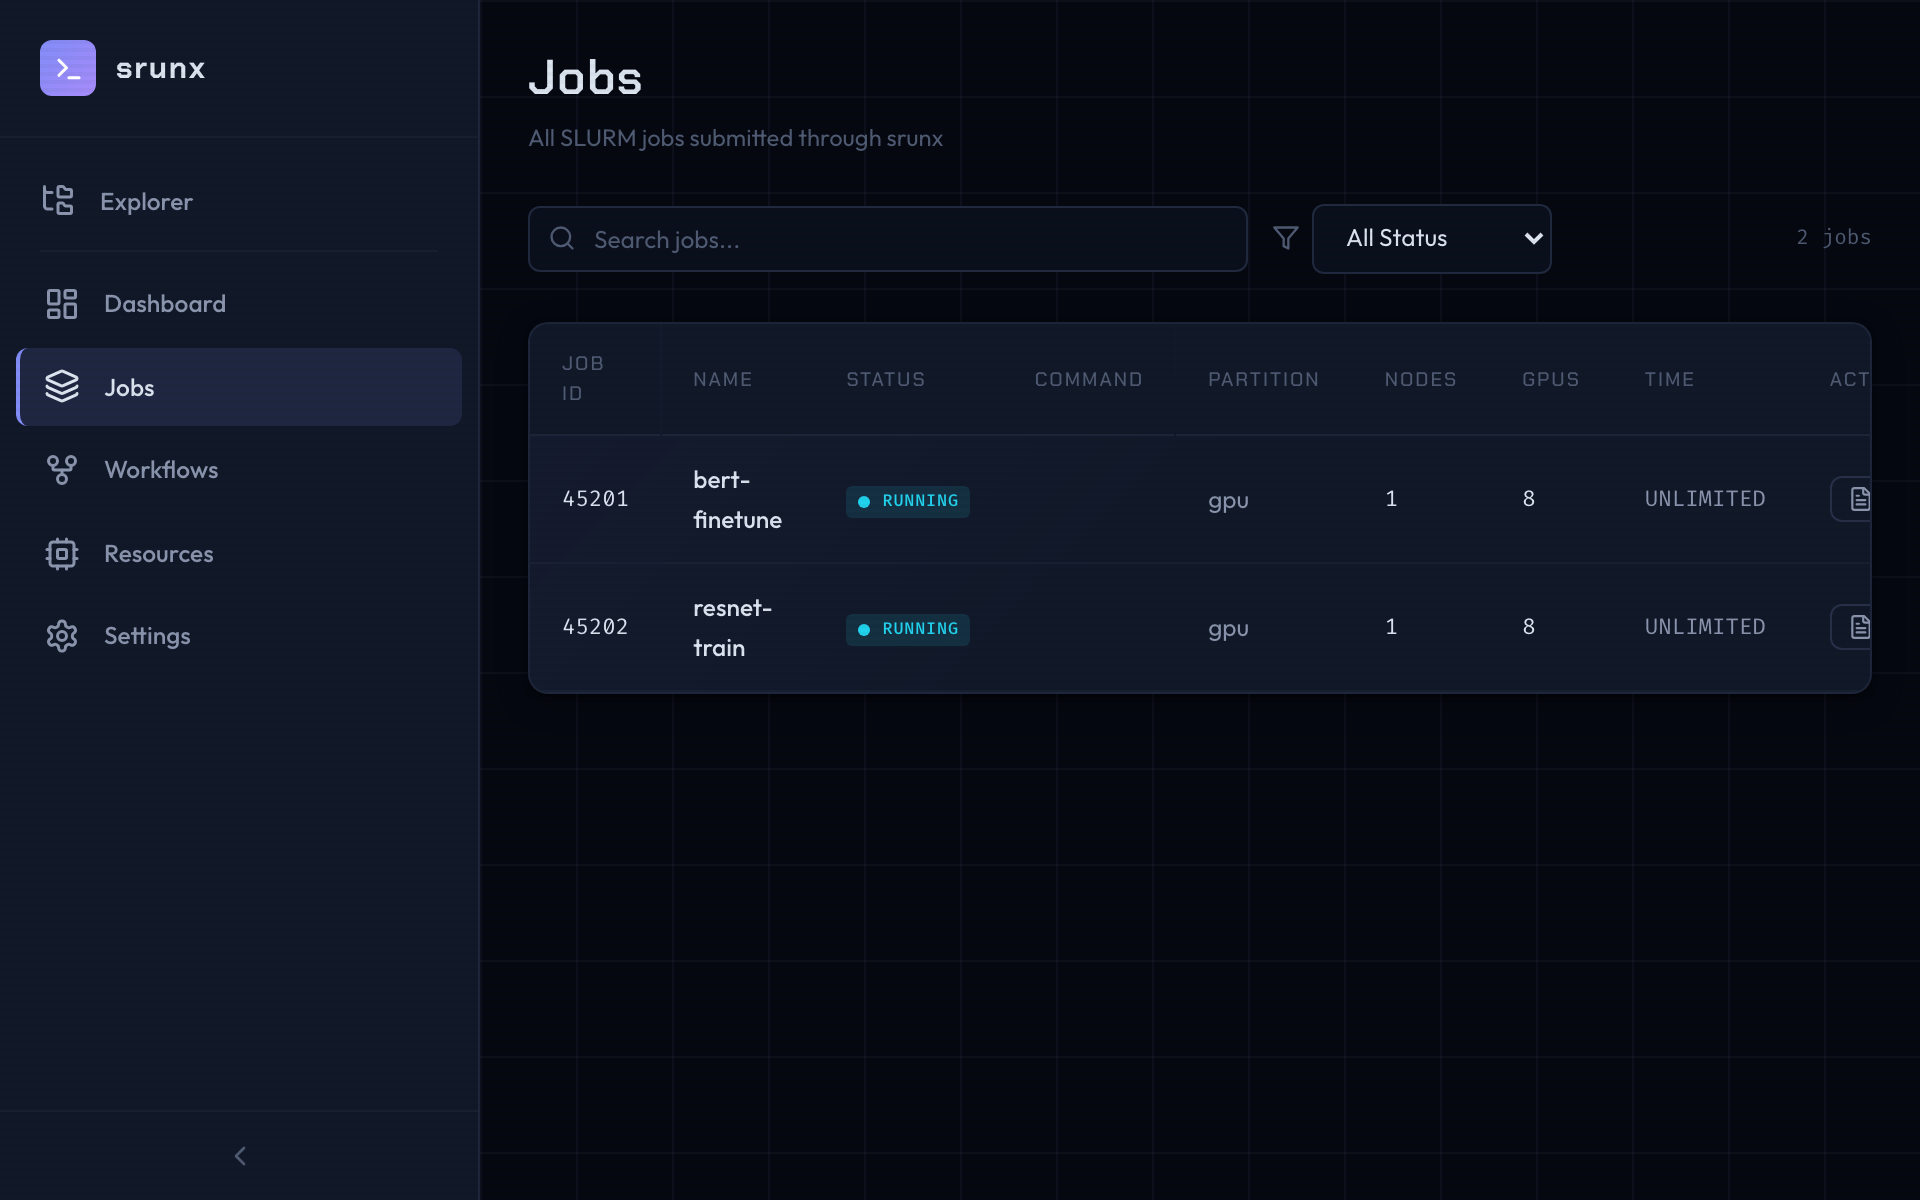
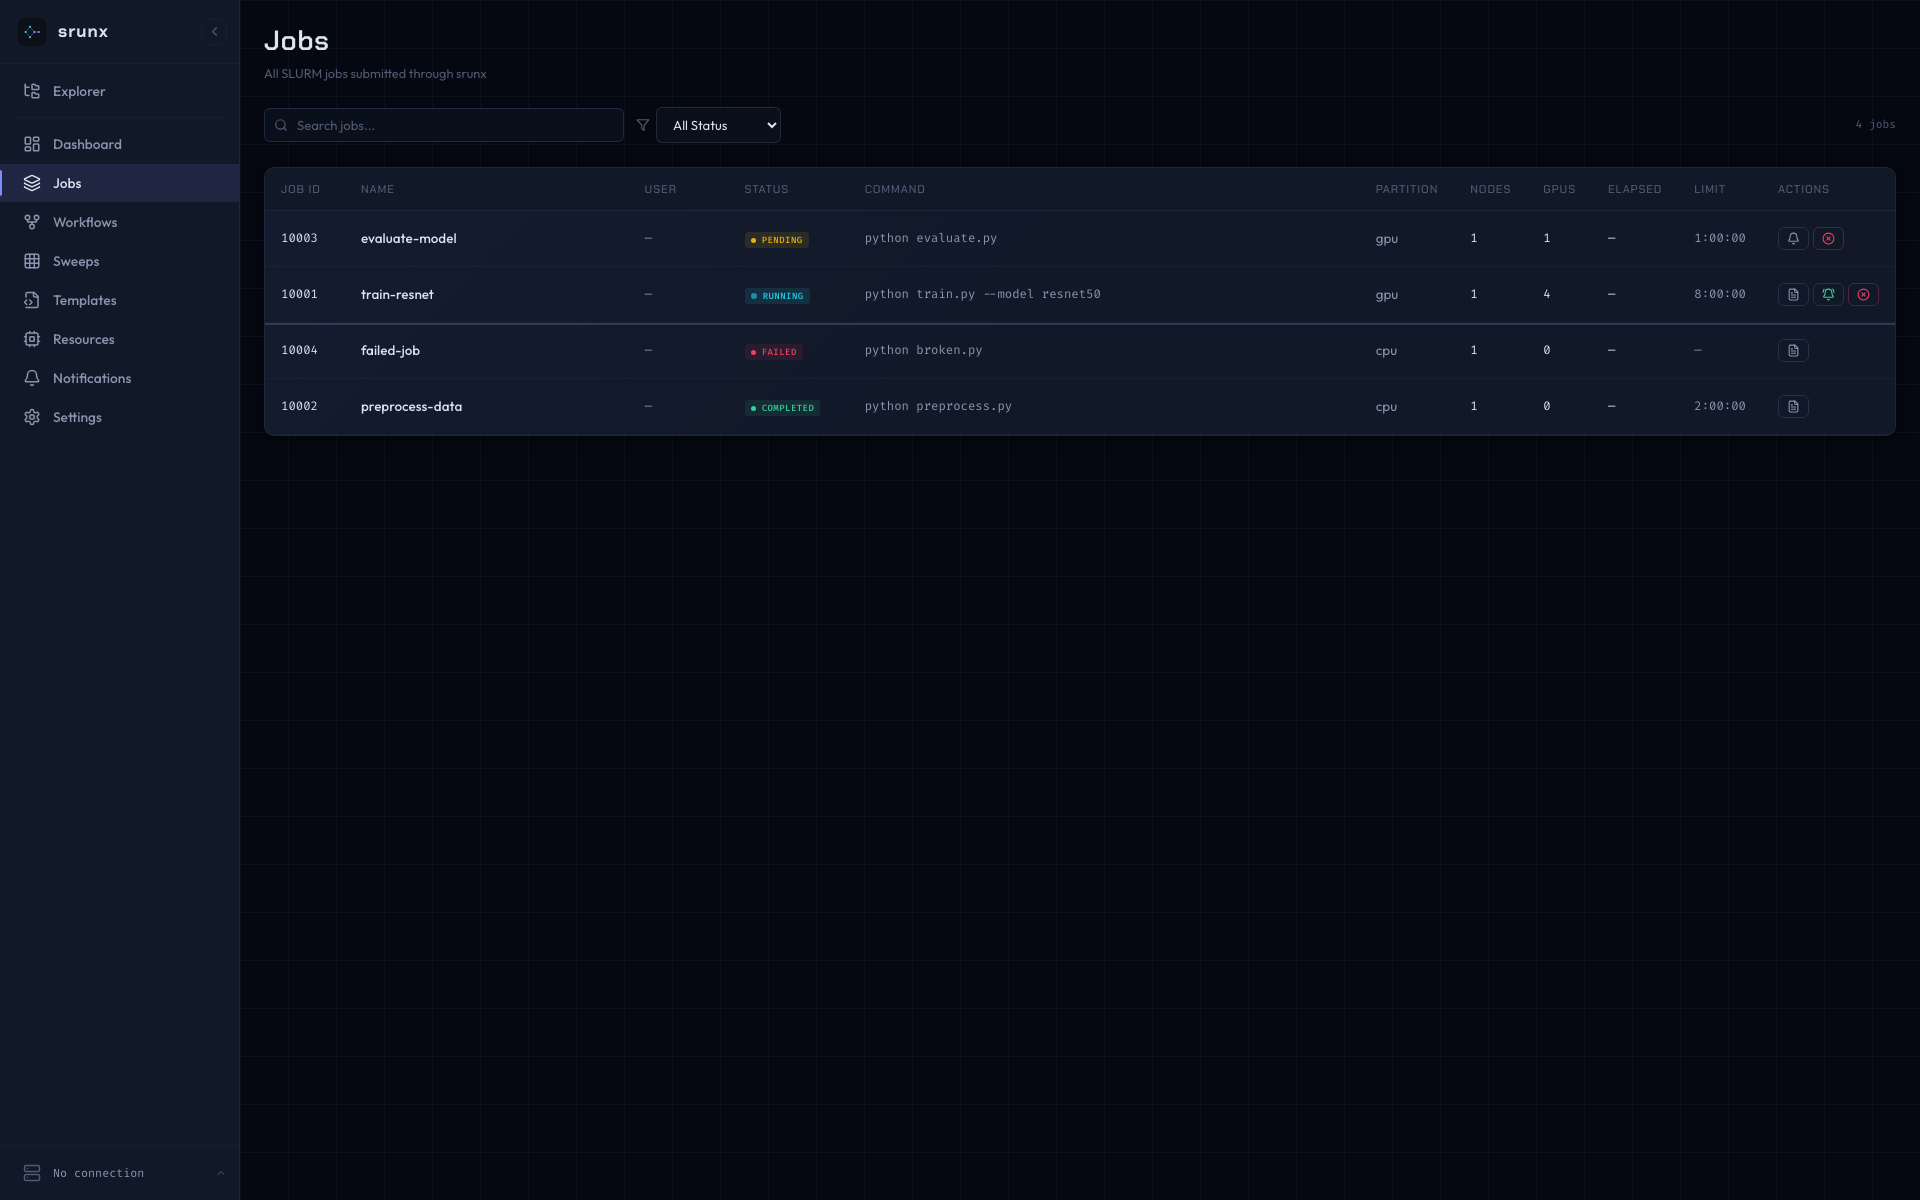
chore(docs): refresh UI screenshots + add reproducible capture spec
The dashboard / jobs / resources / workflow-dag / explorer / notifications
screenshots no longer matched the live UI: missing nav entries (Sweeps,
Templates, Notifications), the old terminal-icon brand, and the pre-rewrite
sidebar. Regenerated all of them against the same mocked APIs the e2e
suite uses, then re-recorded the explorer sbatch demo GIF.

To make future updates a one-liner, this PR also adds:

- `e2e/capture-screenshots.ts` — Playwright capture script that hits each
  page (with `setupMockRoutes`) at the historical viewport sizes and
  writes PNGs straight into `docs/assets/images/`. The filename omits
  `.spec.ts` so the default Playwright glob in CI ignores it.
- `playwright.capture.config.ts` — alternate config that overrides
  `testMatch` to include exactly that one file. Run with
  `npx playwright test --config=playwright.capture.config.ts`.

The 3 notifications-center screenshots were `.gitignore`d by the global
`*.png` rule and never tracked; force-add them so the docs reference
resolves.

diff --git a/src/srunx/web/frontend/e2e/capture-screenshots.ts b/src/srunx/web/frontend/e2e/capture-screenshots.ts
@@ -1,0 +1,136 @@
+/**
+ * Regenerate the README / docs screenshots from the live UI with mocked APIs.
+ *
+ * The filename intentionally omits the `.spec.ts` suffix so Playwright's
+ * default test glob (`**\/*.spec.ts`) does not pick it up — that keeps
+ * `npx playwright test` (used in CI) free of capture overhead. Run it
+ * explicitly by passing the path:
+ *
+ *   npx playwright test e2e/capture-screenshots.ts --project=chromium
+ *
+ * Outputs land in repo `docs/assets/images/`. The mkdocs build copies them
+ * to `public/assets/images/`, so we don't write there directly.
+ */
+import { test, type Page } from "@playwright/test";
+import * as fs from "node:fs";
+import * as path from "node:path";
+import { setupMockRoutes } from "./fixtures/mock-routes.ts";
+
+// playwright runs from src/srunx/web/frontend/, so repo root is 4 levels up.
+const REPO_ROOT = path.resolve(process.cwd(), "../../../..");
+const DOCS_OUT = path.join(REPO_ROOT, "docs/assets/images");
+
+async function save(page: Page, name: string) {
+  fs.mkdirSync(DOCS_OUT, { recursive: true });
+  const out = path.join(DOCS_OUT, name);
+  await page.screenshot({ path: out, type: "png" });
+  console.log(`wrote ${path.relative(REPO_ROOT, out)}`);
+}
+
+// Settle: wait for the sidebar's framer-motion width animation to complete +
+// any data-driven repaints to flush. 400ms is comfortably above the 200ms
+// transition without making the spec slow.
+async function settle(page: Page) {
+  await page.waitForLoadState("networkidle");
+  await page.waitForTimeout(400);
+}
+
+test.describe("UI screenshots", () => {
+  test("dashboard, jobs, resources @ 1920x1200", async ({ page }) => {
+    await page.setViewportSize({ width: 1920, height: 1200 });
+    await setupMockRoutes(page);
+
+    await page.goto("/");
+    await settle(page);
+    await save(page, "ui-dashboard.png");
+
+    await page.goto("/jobs");
+    await settle(page);
+    await save(page, "ui-jobs.png");
+
+    await page.goto("/resources");
+    await settle(page);
+    await save(page, "ui-resources.png");
+  });
+
+  test("workflow DAG @ 1920x1200", async ({ page }) => {
+    await page.setViewportSize({ width: 1920, height: 1200 });
+    await setupMockRoutes(page);
+
+    await page.goto("/workflows/ml-pipeline?mount=ml-project");
+    await settle(page);
+    // Give react-flow's layout a beat after data lands.
+    await page.waitForTimeout(600);
+    await save(page, "ui-workflow-dag.png");
+  });
+
+  test("explorer @ 1280x800", async ({ page }) => {
+    await page.setViewportSize({ width: 1280, height: 800 });
+    await setupMockRoutes(page);
+
+    // Use the demo's richer browse fixture so the tree shows realistic content.
+    const SCRIPT = `#!/bin/bash\n#SBATCH --job-name=train_bert\n#SBATCH --partition=gpu\n#SBATCH --gres=gpu:1\nsource activate ml_env\npython train.py\n`;
+    const ROOT_ENTRIES = [
+      { name: "configs", type: "directory" },
+      { name: "datasets", type: "directory" },
+      { name: "docs", type: "directory" },
+      { name: "models", type: "directory" },
+      { name: "scripts", type: "directory" },
+      { name: "templates", type: "directory" },
+      { name: "tests", type: "directory" },
+      { name: "config.yaml", type: "file", size: 412 },
+      { name: "main.py", type: "file", size: 2014 },
+      { name: "pyproject.toml", type: "file", size: 890 },
+      { name: "README.md", type: "file", size: 1820 },
+      { name: "run_experiment.sh", type: "file", size: 310 },
+      { name: "train_bert.sh", type: "file", size: SCRIPT.length },
+      { name: "uv.lock", type: "file", size: 52100 },
+    ];
+    await page.route("**/api/files/browse*", (route) =>
+      route.fulfill({ json: { entries: ROOT_ENTRIES } }),
+    );
+
+    await page.goto("/explorer");
+    await settle(page);
+    // FileExplorer auto-opens the first mount on load and fetches its
+    // entries. Just wait for the listing to appear before snapping.
+    await page
+      .locator("text=train_bert.sh")
+      .waitFor({ state: "visible", timeout: 5000 });
+    await page.waitForTimeout(300);
+    await save(page, "ui-explorer.png");
+  });
+
+  test("notifications center variants @ 1200x740", async ({ page }) => {
+    await page.setViewportSize({ width: 1200, height: 740 });
+    await setupMockRoutes(page);
+
+    // Populated (the default mock state).
+    await page.goto("/notifications");
+    await settle(page);
+    await save(page, "notifications-center-populated.png");
+
+    // Filter applied — click the "delivered" filter pill.
+    await page
+      .locator(".panel", { hasText: "Recent deliveries" })
+      .getByRole("button", { name: "delivered", exact: true })
+      .click();
+    await page.waitForTimeout(250);
+    await save(page, "notifications-center-filter-delivered.png");
+
+    // Empty — register higher-priority overrides that short-circuit the
+    // default mocks and return empty arrays. (Playwright matches the
+    // most-recently-added route first.) The shape mirrors the real backend:
+    // /api/deliveries returns a bare array (filtered server-side); watches
+    // and subscriptions also return bare arrays.
+    await page.route("**/api/deliveries*", (r) => r.fulfill({ json: [] }));
+    await page.route("**/api/deliveries/stuck*", (r) =>
+      r.fulfill({ json: { count: 0, older_than_sec: 300 } }),
+    );
+    await page.route("**/api/watches*", (r) => r.fulfill({ json: [] }));
+    await page.route("**/api/subscriptions*", (r) => r.fulfill({ json: [] }));
+    await page.reload();
+    await settle(page);
+    await save(page, "notifications-center-empty.png");
+  });
+});

diff --git a/src/srunx/web/frontend/playwright.capture.config.ts b/src/srunx/web/frontend/playwright.capture.config.ts
@@ -1,0 +1,22 @@
+/**
+ * Alternate Playwright config used only for regenerating UI screenshots.
+ *
+ * The main `playwright.config.ts` matches `*.spec.ts` (as set by the
+ * default Playwright glob), so `e2e/capture-screenshots.ts` is invisible
+ * to the regular CI run. This config overrides `testMatch` to include
+ * exactly that one file.
+ *
+ *   npx playwright test --config=playwright.capture.config.ts
+ */
+import { defineConfig } from "@playwright/test";
+import baseConfig from "./playwright.config.ts";
+
+export default defineConfig({
+  ...baseConfig,
+  testMatch: ["**/capture-screenshots.ts"],
+  // Captures touch the same shared output directory; keep them serial.
+  workers: 1,
+  fullyParallel: false,
+  retries: 0,
+  reporter: "list",
+});
